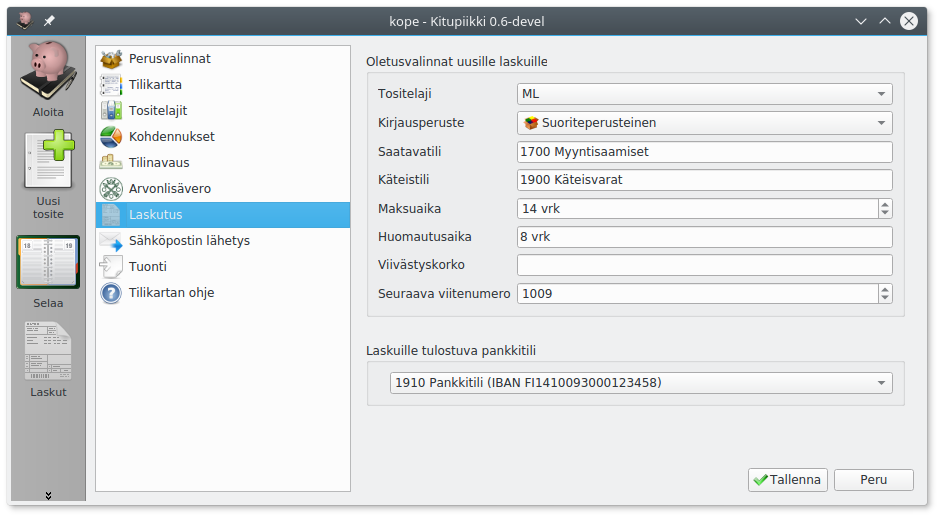
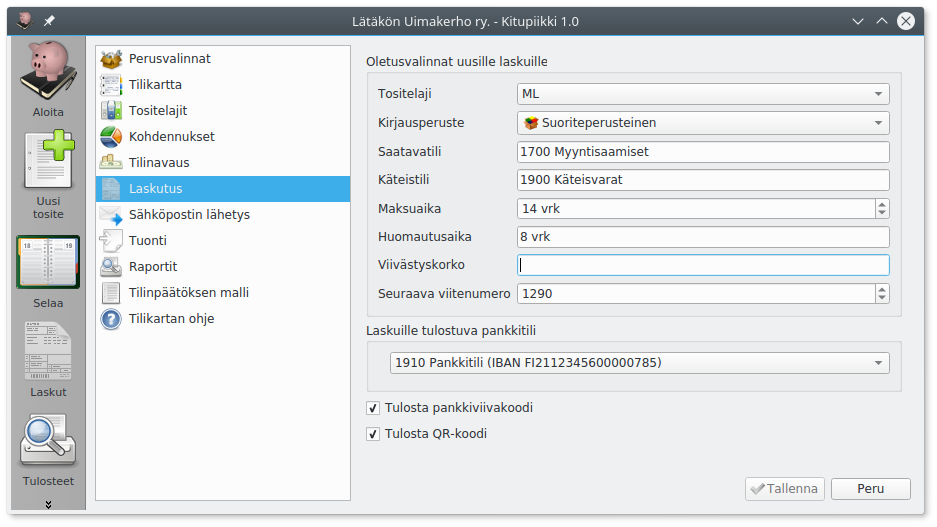
docs

Changed region(s): [[0.0, 0.0309, 0.9904, 0.9266], [0.3714, 0.6178, 0.9594, 0.834], [0.8047, 0.8958, 0.9594, 0.9575]]

diff --git a/docs/maaritykset/tilinpaatos/index.md b/docs/maaritykset/tilinpaatos/index.md
@@ -1,13 +1,31 @@
 # Tilinpäätöksen malli
 
 !!! note "Edistynyt toiminto"
-    Sinun ei yleensä tarvitse muokata raportteja. Raporttien muokkaus on otettava erikseen käyttöön [perusvalintojen](../perusvalinnat) kohdasta **Näytä tulosteiden muokkauksen työkalut**
+    Sinun ei yleensä tarvitse muokata tilinpäätöksen mallia. Muokkaus on otettava erikseen käyttöön [perusvalintojen](../perusvalinnat) kohdasta **Näytä tulosteiden muokkauksen työkalut**
 
 ![](malli.png)
 
 Tässä määritellään tilinpäätökseen tulostuvat raportit sekä liitetietojen kaava.
 
 Erikoismerkeillä alkavat värilliset rivit määrittelevät ehtoja ja tulosteita, ja kaikki muu html-muotoinen teksti tulostuu tilinpäätöksen liitetietoihin.
+
+**?**-alkuiset rivit määrittelevät, että niiden jälkeen tulostuu vain tietyllä Kitupiikin asetuksella aina seuraavaan **?**-ehtoon saakka (Pelkkä **?** lopettaa ehdon). Niinpä seuraavan esimerkin osuus on käytettävissä vain osakeyhtiöille
+
+```
+?Muoto=Osakeyhtiö
+##Osakeyhtiön pääoma ja vapaan oman pääoman käyttö
+#oypaaoma Oman pääoman muutokset
+<h2>Oman pääoman muutokset</h2>
+<p> ... </p>
+#oyeiosinko -oykaytto Ei osinkoa
+<h2>Hallituksen ehdotus jakokelpoisen vapaan oman pääoman käytöstä</h2>
+<p>Hallitus ehdottaa, että osinkoa ei jaeta.</p>
+#oykaytto -oyeiosinko Hallituksen ehdotus vapaan oman pääoman käytöstä
+<h2>Hallituksen ehdotus jakokelpoisen vapaan oman pääoman käytöstä</h2>
+<p>Jakokelpoinen vapaa oma pääoma on ...</p>
+<p>Hallitus ehdottaa, että osinkoa jaetaan XX euroa per osake, eli yhteensä XXX euroa. Osinko on nostettavissa yhtiökokousta seuraavana päivänä.</p>
+?
+```
 
 Seuraavat rivit määrittelevät, että niiden jälkeen tulostuu vain tietyn kokoluokan yrityksille
 
@@ -17,6 +35,26 @@ Seuraavat rivit määrittelevät, että niiden jälkeen tulostuu vain tietyn kok
 * **#HENKILOSTO** Yrityksille, joilla on henkilöstöä
 
 **##** tarkoittaa, että rivi on tilinpäätöksen muodostamisen valintaikkunaan tulostuva otsikko
+
+```
+##Tuloslaskelma
+#brutto -I -mikrolv -mikrobrutto Bruttotuloslaskelma (PMA-asetuksen mukainen)
+@Tuloslaskelma PMA bruttotulos!TULOSLASKELMA (TILINPÄÄTÖS)@
+#mikrolv -I -P -brutto -mikrobrutto Mikroyrityksen lyhyt tuloslaskelma (PMA-asetuksen mukainen)
+@Tuloslaskelma mikroyritys!TULOSLASKELMA (TILINPÄÄTÖS)@
+#mikrobrutto -I -P -brutto -mikrolv Mikroyrityksen lyhyt bruttotuloslaskelma (PMA-asetuksen mukainen)
+@Tuloslaskelma mikro bruttotulos!TULOSLASKELMA (TILINPÄÄTÖS)@
+#-brutto -mikrobrutto -mikrolv
+@Tuloslaskelma!TULOSLASKELMA (TILINPÄÄTÖS)@
+#
+<h2>Tilinpäätöksen laatimisperusteet</h2>
+#MIKRO
+<p>Tilinpäätöksen laatimisessa on noudatettu pien- ja mikroyrityksen tilinpäätöksessä esitettävistä tiedoista
+annetun asetuksen (PMA) mikroyrityssäänöstöä.</p>
+#PIEN
+<p>Tilinpäätöksen laatimisessa on noudatettu pien- ja mikroyrityksen tilinpäätöksessä esitettävistä tiedoista
+annetun asetuksen (PMA) pienyrityssäänöstöä.</p>
+```
 
 ![](muodostaminen.png)
 
@@ -38,3 +76,9 @@ Pelkkä **#** lopettaa ehdon, jonka jälkeiset rivit tulostuvat kaikilla valinno
 * `@Raportin nimi!Otsikko@` määrittelee, että mainittu raportti liitetään tilinpäätökseen, ja `@Raportin nimi*Otsikko@` vastaavasti raportin erittelylle (nämä voi liittää helpommin **Lisää raportti**-napilla)
 * `@henkilosto@` lisää taulukon henkilöstön määrästä tällä ja edellisellä tilikaudella
 * `@sha@` lisää arkiston sha256-tiivisteen
+
+```
+#HENKILOSTO
+<h2>Henkilöstön määrä</h2>
+@henkilosto@
+```

diff --git a/docs/maaritykset/monimuoto/index.md b/docs/maaritykset/monimuoto/index.md
@@ -1,0 +1,68 @@
+# Monimuotoiset tilikartat
+
+!!! note "Todella edistynyt toiminto"
+    Tätä toimintoa tarvitaan vain tilikarttojen tekemiseen.
+
+Kitupiikin elinkeinotoiminnan tilikartoissa voidaan valita [perusvalinnoissa](../perusvalinnat) yritysmuoto. Tällainen monimuotoinen tilikartta on toteutettu joukolla tilikartan asetuksia.
+
+```
+[MuotoTeksti]
+Yritysmuoto
+[MuotoOn/Julkinen osakeyhtiö]
++201..207
++226
++149
+[MuotoPois/Julkinen osakeyhtiö]
+-201..207
+-226
+-149
+[MuotoOn/Osakeyhtiö]
++201..207
++226
+[MuotoPois/Osakeyhtiö]
+-201..207
+-226
+[MuotoOn/Osuuskunta]
++205..210
++227
+[MuotoPois/Osuuskunta]
+-205..210
+-227
+[MuotoOn/Kommandiittiyhtiö]
++215..219
++231..235
+[MuotoPois/Kommandiittiyhtiö]
+-215..219
+-231..235
+[MuotoOn/Toiminimi]
++220
++236
+Elinkeinonharjoittaja=ON
+[MuotoPois/Toiminimi]
+-220
+-236
+Elinkeinonharjoittaja=EI
+```
+
+**MuotoTeksti**-asetus määrittelee, mikä otsikko näytetään muodon valinnassa. **MuotoOn/<Nimi>** määrittelee komentojonon, joka suoritetaan muotoa valittaessa ja **MuotoPois/<Nimi>** kun valinta poistuu. Aina tilikarttaa päivitettäessä suoritetaan ensin vanhan tilikartan **MuotoPois**-komentojono ja päivityksen lopuksi uuden tilikartan **MuotoOn**-komentojono.
+
+Komentojono voi sisältää seuraavia komentoja
+
+Joukko tilejä voidaan piilottaa, näyttää tai asettaa suosikkitileiksi. Tilit näytetään komennolla `+201..207` missä **+**-merkkiä seuraa tilinumeroväli samalla tavalla kuin raporteissa. Tilit piilotetaan vastaavasti komennolla `-201..207` tai asetetaan suosikiksi `*220`.
+
+Tilien [json-määreitä](https://github.com/artoh/kitupiikki/wiki/Json#tili) voidaan muuttaa komennolla `30..31 AlvProsentti=14` (esimerkki muuttaa tilien 3000-3199 alv-prosentiksi 14).
+
+Kirjanpidon [asetuksia](https://github.com/artoh/kitupiikki/wiki/Asetukset) voidaan muuttaa komennolla `Elinkeinonharjoittaja=ON`. Listamuotoiseen asetukseen voidaan lisätä rivi komennolla `ArkistoRaportit+=Toiminnanalat` ja vastaavasti poistaa komennolla `ArkistoRaportit=Toiminnanalat`.
+
+## DevTool
+
+!!! danger "Tiedä, mitä teet"
+    Ole erittäin huolellinen! DevTool mahdollistaa kaikkien kirjanpidon asetusten suoran muokkaamisen. Varmuuskopiointi ennen DevTool-toimintoja ei ole mitenkään huono idea.
+
+Kun [perusvalintojen](../perusvalinnat) kohta **Näytä tulosteiden muokkauksen työkalut** on valittuna, löytyy **Tilikartan ohje**-määritysvälilehdeltä painike **DevTool**. Painikkeesta avautuu kehittäjille tarkoitettu erikoistyökalu.
+
+![](devtool.png)
+
+**Asetukset**-välilehdellä voit muokata kaikkia kirjanpidon asetuksia ja siten muokata monimuotoisen tilikartan toimintoja.
+
+**Skripti**-välilehdellä voit suorittaa yllä kuvattuja komentojonoja. Niillä voit muokata kerralla suurempaakin tiliryhmää.

diff --git a/docs/maaritykset/raportit/index.md b/docs/maaritykset/raportit/index.md
@@ -1,16 +1,18 @@
 !!! note "Edistynyt toiminto"
-    Sinun ei yleensä tarvitse muokata raportteja. Raporttien muokkaus on otettava erikseen käyttöön [perusvalintojen](../perusvalinnat) kohdasta **Näytä tulosteiden muokkauksen työkalut**
+    Sinun ei yleensä tarvitse muokata raportteja. Raporttien muokkaus on otettava erikseen käyttöön [perusvalintojen](../perusvalinnat) kohdasta **Näytä tulosteiden muokkauksen työkalut**.
+
+    Raporttien muokkausta tarvitaan, jos olet muuttanut tilien numerointia tai lisännyt tilejä olemassa olevien otsikkoalueiden ulkopuolelle.
 
 ![](muokkaus.png)
 
 **Määritykset > Raportit** pääset muokkaamaan raportteja.
 
 * Valitse ylhäällä vasemmalla olevasta luettelosta muokattava raportti tai aloita **uusi**-painikkeella uusi raportti
-* Oikealla yläkulmassa valitaan raportin tyyppi
-  * **Tuloslaskelma** kuvaa tilikauden tulosta (tulostilit)
-  * **Tase** kuvaa taloudellista tilannetta tilinpäätöspäivänä (tasetilit)
-  * **Kohdennuslaskelma** lasketaan erikseen jokaiselle käytössä olevalle kohdennukselle
-  * **Liitä erittely arkistoon** määrittelee, liitetäänkö tämä raportti erittelynä sähköiseen arkistoon.
+* Oikealla yläkulmassa valitaan raportin tyyppi <ul>
+  <li> **Tuloslaskelma** kuvaa tilikauden tulosta (tulostilit) </li>
+  <li> **Tase** kuvaa taloudellista tilannetta tilinpäätöspäivänä (tasetilit) </li>
+  <li> **Kohdennuslaskelma** lasketaan erikseen jokaiselle käytössä olevalle kohdennukselle. Kohdennuslaskelmassa voi olla sekä tase- että tulostilejä samalla laskelmalla. </li></ul>
+* **Liitä erittely arkistoon** määrittelee, liitetäänkö tämä raportti erittelynä sähköiseen arkistoon.
 
 Raportin kaava muodostuu siten, että vasemmassa reunassa on tulostettavat tekstit ja tabulaattorin jälkeen tulostetta ohjaavat määritteet.
 

diff --git a/docs/maaritykset/laskutus/index.md b/docs/maaritykset/laskutus/index.md
@@ -3,16 +3,18 @@
 Määrittelee uusien laskujen oletusvalinnat
 
 * **Tositelaji**, johon laskut kirjataan kirjanpidossa (yleensä myyntilaskut)
-* **Kirjausperuste**, jolla lasku kirjataan kirjanpitoon
-  * Suoriteperusteinen: kirjataan toimituspäivänä
-  * Laskuperusteinen: kirjataan laskutuspäivänä
-  * Maksuperusteinen: kirjataan, kun lasku maksettu
-  * Käteiskuitti: maksetaan käteisellä tavaraa luovutettaessa
-* **Saatavatili** (yleensä Myyntisaamiset) jos lasku kirjataan suorite- tai maksuperusteisesti
-* **Käteistili** jos maksu kirjataan käteislaskuna (yleensä Käteisvarat)
+* **Kirjausperuste**, jolla lasku kirjataan kirjanpitoon <ul>
+  <li>**Suoriteperusteinen**: kirjataan toimituspäivänä</li>
+  <li>**Laskuperusteinen**: kirjataan laskutuspäivänä</li>
+  <li>**Maksuperusteinen**: kirjataan, kun lasku maksettu</li>
+  <li>**Käteiskuitti**: maksetaan käteisellä tavaraa luovutettaessa</li></ul>
+* **Saatavatili** tili, jolle lasku kirjataan suorite- tai maksuperusteisesti (yleensä Myyntisaamiset)
+* **Käteistili** tili, jos maksu kirjataan käteislaskuna (yleensä Käteisvarat)
 * **Maksuaika** eräpäivän määrittelemiseen
 * Laskulle tulostettava **huomautusaika** ja **viivästyskorko**
 * **Seuraava viitenumero**. Jos olet laskuttanut saman tilivuoden aikana toisella ohjelmalla, valitse varmasti vapaaksi jäävä numeroalue. Kitupiikki huolehtii itse viimeisen numeron (tarkastusnumero) laskemisesta. Viitenumero toimii myös laskun numerona.
 
 Voidaksesi valita **laskuille tulostuvan pankkitilin numeron**, pitää IBAN-tilinumero olla syötettynä
 [tilin tiedoissa](/maaritykset/tilikartta).
+
+Valitse myös, tulostetaanko pankkisiirtolomakkeeseen **pankkiviivakoodi** sekä vastaavat tiedot sisältävä **QR-koodi**.

diff --git a/README.md b/README.md
@@ -2,7 +2,7 @@
 
 [![versio](https://img.shields.io/github/release/artoh/kitupiikki.svg?label=Julkaistu%20versio)](https://github.com/artoh/kitupiikki/releases)
 [![versio](https://img.shields.io/github/release/artoh/kitupiikki/all.svg?label=Esiversio)](https://github.com/artoh/kitupiikki/releases)
-![lisenssi](https://img.shields.io/github/license/artoh/kitupiikki.svg?label=Lisenssi)
+[![lisenssi](https://img.shields.io/github/license/artoh/kitupiikki.svg?label=Lisenssi)](https://raw.githubusercontent.com/artoh/kitupiikki/master/LICENSE)
 [![mathdown HuBoard](https://img.shields.io/github/issues/artoh/kitupiikki.svg?label=Tehtävät%20%28HuBoard%29)](https://huboard.com/artoh/kitupiikki)
 [![Join the chat at https://gitter.im/kitupiikki/Lobby](https://badges.gitter.im/kitupiikki/Lobby.svg)](https://gitter.im/kitupiikki/Lobby?utm_source=badge&utm_medium=badge&utm_campaign=pr-badge&utm_content=badge)
 
@@ -35,7 +35,7 @@ Linuxissa poppler on helppo asentaa järjestelmään:
 
     sudo apt-get install libpoppler-qt5-1 libpoppler-qt5-dev
 
-Windowsissa voi käyttää [valmiiksi käännettyä Poppler Win32](https://sourceforge.net/projects/poppler-win32/) -kirjastoa, joka puretaan kitupiikin hakemistoon. Päivitysten tarkistaminen ja SMTP/SSL-sähköpostin lähettäminen vaativat OpenSSL-kirjastoa.
+Windowsissa voi käyttää [valmiiksi käännettyä Poppler Win32](https://sourceforge.net/projects/poppler-win32/) -kirjastoa, joka puretaan kitupiikin hakemistoon. SMTP/SSL-sähköpostin lähettäminen vaativat OpenSSL-kirjastoa.
 
 
 ## Kääntäminen

diff --git a/docs/maaritykset/sahkoposti/index.md b/docs/maaritykset/sahkoposti/index.md
@@ -19,6 +19,4 @@ Kun olet syöttänyt asetukset, paina **Kokeile**-painiketta, joka yrittää lä
 
 Tässä tapauksessa käyttäjätunnus tai salasana on väärin.
 
-Jos lähetys onnistuu, tulee Kokeile-napin vasemmalle puolelle teksti **Sähköposti lähetetty**, ja löydät testiviestin postilaatikostasi
-
-![](mailissa.png)
+Jos lähetys onnistuu, tulee Kokeile-napin vasemmalle puolelle teksti **Sähköposti lähetetty**, ja löydät testiviestin postilaatikostasi.
